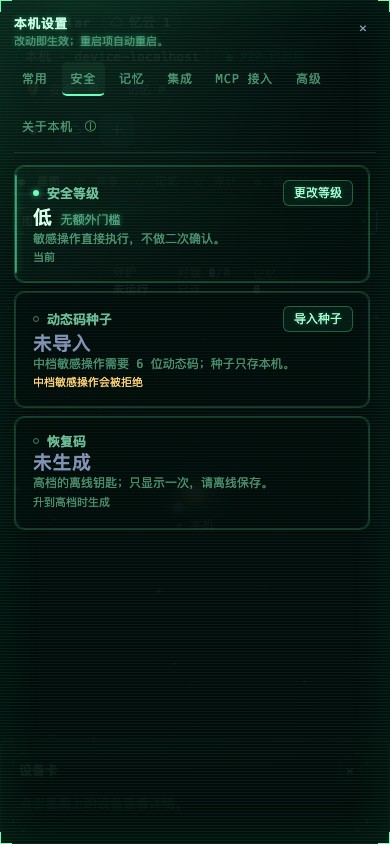
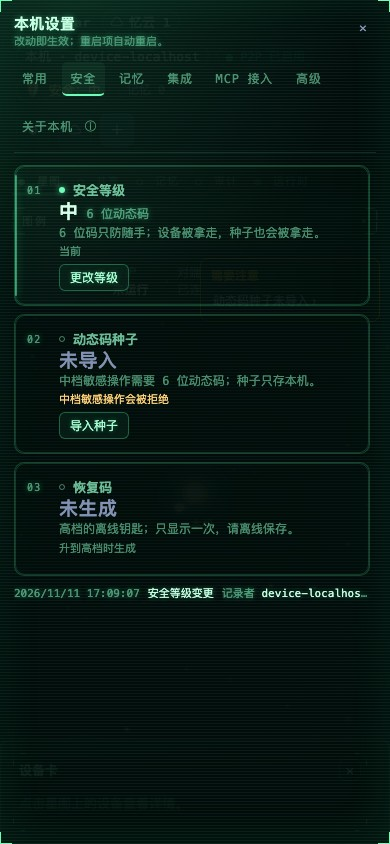
feat(console): v2.1 design-review alignment (settings only)
- title 15/700, field labels 13/400, buttons 27, group labels uppercase, JetBrains first
- common: interface group wraps the language row; compress group rhythm to keep 720 + banner unscrolled
- security: 01-03 index column, 114 cards, 11px audit line from existing security events
- cfg-row 150/1fr/68; keep 40px rows, anomaly triple, 188 rail (review 160 is a doc conflict)
- update UI assertions, screenshots and docs

diff --git a/packages/console/console.css b/packages/console/console.css
@@ -24,7 +24,7 @@
   --danger: #d55e00;
   --revoked: #7a8399;
   --radius: 10px;
-  --font: "SF Mono", "JetBrains Mono", "Fira Code", ui-monospace, Menlo, Consolas, monospace;
+  --font: "JetBrains Mono", "SF Mono", "Fira Code", ui-monospace, Menlo, Consolas, monospace;
   /* 辅助文本层级（默认值 = 中文现状；英文覆盖见下方 html[lang="en-US"]） */
   --type-help: 10.5px;
   --type-help-leading: 1.5;
@@ -3165,7 +3165,7 @@ html[lang="en-US"] .btn-small { line-height: 1.5; }
 .cfg-row + .cfg-warn-line + .cfg-effective { margin-top: 0; }
 
 /* v2 英文同样 12/18：压掉旧 en 的 1.35 标签行距对 .cfg-label 的覆盖 */
-html[lang="en-US"] .modal-settings .cfg-label { line-height: 18px; }
+html[lang="en-US"] .modal-settings .cfg-label { line-height: 19px; }
 
 /* 加入忆云仍是 560 宽（cloud-join-box 覆盖 modal-box-wide） */
 #join-cloud-modal .modal-box, .modal-box.cloud-join-box { width: min(560px, 94vw); }
@@ -3204,3 +3204,96 @@ html[lang="en-US"] .modal-settings .cfg-label { line-height: 18px; }
   .sec-pending .btn { flex: 0 0 auto; }
   #settings-security-slot > .settings-section.sec-card { min-width: 0; }
 }
+
+/* ===== v2.1 规格对齐（仅设置弹层；关于/其它弹层不受影响） ===== */
+.modal-settings .modal-head { height: 38px; }
+.modal-settings .modal-head h2 { font-size: 15px; line-height: 20px; font-weight: 700; letter-spacing: 0.02em; }
+.modal-settings .modal-head .settings-apply-note { margin-top: 2px; }
+.modal-settings .settings-group-head h3 { text-transform: uppercase; }
+.modal-settings .settings-kv dt,
+.modal-settings .settings-kv .kv-value,
+.modal-settings .cfg-label,
+.modal-settings .cfg-status,
+.modal-settings .cfg-control .crt-input { font-size: 13px; line-height: 19px; }
+.modal-settings .btn,
+.settings-more > .btn,
+.settings-more-panel .btn { height: 27px; min-height: 27px; }
+.modal-settings .cfg-row {
+  display: grid;
+  grid-template-columns: 150px minmax(0, 1fr) 68px;
+  column-gap: 10px;
+  align-items: center;
+  height: 40px; min-height: 40px;
+  padding: 0 14px;
+}
+.modal-settings .cfg-label { flex: none; }
+.modal-settings .cfg-control { margin-left: 0; justify-self: end; justify-content: flex-end; }
+.modal-settings .cfg-status { justify-self: end; }
+.modal-settings .settings-kv .kv-action .btn { height: 27px; }
+
+/* v2.1 · 常用「界面」组：语言行在面板内不再自带下虚线 */
+.settings-group-body .settings-language-row {
+  height: 40px; min-height: 40px; padding: 0 14px; border-bottom: 0;
+}
+
+/* v2.1 · 安全卡：22px 序号 + 主列 + 动作列（仍 114） */
+#settings-security-slot > .settings-section.sec-card {
+  display: grid;
+  grid-template-columns: 22px minmax(0, 1fr) auto;
+  column-gap: 10px;
+  align-items: start;
+  height: 114px;
+  padding: 14px 16px 14px 12px;
+}
+.sec-card-idx {
+  display: block; padding-top: 3px;
+  font-size: 10px; line-height: 15px; letter-spacing: 1.2px;
+  color: var(--crt-dim); font-variant-numeric: tabular-nums;
+}
+.sec-card-main { grid-column: 2; min-width: 0; }
+.sec-card-actions {
+  grid-column: 3; justify-self: end;
+  display: flex; align-items: flex-start; justify-content: flex-end;
+  gap: 6px; flex-wrap: wrap; min-width: 0;
+}
+.sec-card-actions .btn { height: 27px; padding: 0 10px; }
+
+/* 安全审计一行流（无事件时不渲染） */
+.modal-settings .sec-audit-line, #settings .sec-audit-line {
+  margin: 2px 0 0;
+  display: flex; align-items: baseline; gap: 8px;
+  line-height: 16px; white-space: nowrap;
+  min-width: 0;
+  font-size: 11px; line-height: 16px; color: var(--crt-dim);
+  white-space: nowrap; overflow: hidden; text-overflow: ellipsis;
+}
+.sec-audit-time { flex: none; font-variant-numeric: tabular-nums; }
+.sec-audit-type { flex: none; color: var(--crt-bright); }
+.sec-audit-desc { min-width: 0; overflow: hidden; text-overflow: ellipsis; }
+.sec-audit-desc b { font-weight: 400; color: var(--crt-bright); }
+
+/* v2.1 · 窄屏：字段行仍两行（标签上、控件下），安全卡动作换到主列下方 */
+@media (max-width: 760px) {
+  .modal-settings .cfg-row {
+    display: grid; grid-template-columns: minmax(0, 1fr);
+    height: auto; min-height: 40px; row-gap: 2px; padding: 6px 14px;
+  }
+  .modal-settings .cfg-label { white-space: normal; }
+  .modal-settings .cfg-control { justify-self: start; justify-content: flex-start; }
+  .modal-settings .cfg-status { justify-self: start; }
+}
+@media (max-width: 560px) {
+  #settings-security-slot > .settings-section.sec-card {
+    grid-template-columns: 22px minmax(0, 1fr);
+    height: auto; min-height: 114px;
+  }
+  .sec-card-actions { grid-column: 2; grid-row: 2; justify-self: start; margin-top: 2px; }
+  .sec-card-main { grid-column: 2; grid-row: 1; }
+}
+
+/* v2.1 · 为「界面」组腾出 720 + 40 条的空间：只压组间距（内容不隐藏） */
+.modal-settings .modal-head { height: 36px; }
+.modal-settings .modal-head .settings-apply-note { margin-top: 0; }
+.modal-settings .settings-group { margin-top: 5px; }
+.modal-settings .settings-group-head { margin-bottom: 4px; }
+.modal-settings .settings-scroll { padding-top: 8px; }

diff --git a/packages/console/console.js b/packages/console/console.js
@@ -2161,7 +2161,10 @@ function renderSettings(activeTab = state.settingsTab ?? 'common') {
     ${applyResultBanner()}
     ${shellHtml(`
     ${panel('common', `
-      ${languageSettingsRowHtml()}
+      <section class="settings-group" data-settings-group="interface">
+        <div class="settings-group-head"><h3>${escapeHtml(t('settings.group.interface'))}</h3></div>
+        <div class="settings-group-body">${languageSettingsRowHtml()}</div>
+      </section>
       <section class="settings-group" data-settings-group="resident">
         <div class="settings-group-head"><h3>${escapeHtml(t('settings.common.group.runs'))}</h3></div>
         <div class="settings-group-body" id="settings-resident">${serviceRowHtml(state.service, state.serviceMsg)}${repairRowHtml(state.repair)}${wizardRowHtml(host.capabilities.openWizard)}</div>
@@ -2294,10 +2297,12 @@ function securitySectionCard({ id, index, titleId, title, state: cardState = 'ef
   const off = cardState === 'off';
   return `
     <section class="settings-section sec-card ${off ? 'is-off' : 'is-effective'}" data-settings-section="${escapeHtml(id)}" aria-labelledby="${escapeHtml(titleId)}">
+      <span class="sec-card-idx" aria-hidden="true">${escapeHtml(index)}</span>
       <div class="sec-card-main">
-        <div class="sec-card-head"><span class="sec-dot${off ? ' is-off' : ''}" aria-hidden="true"></span><h3 id="${escapeHtml(titleId)}">${escapeHtml(title)}</h3>${chip}${actions ? `<div class="sec-card-actions">${actions}</div>` : ''}</div>
+        <div class="sec-card-head"><span class="sec-dot${off ? ' is-off' : ''}" aria-hidden="true"></span><h3 id="${escapeHtml(titleId)}">${escapeHtml(title)}</h3>${chip}</div>
         ${body}
       </div>
+      <div class="sec-card-actions">${actions}</div>
     </section>`;
 }
 
@@ -2400,6 +2405,21 @@ function securityPendingStrip({ incoming, outgoing }) {
     </div>`;
 }
 
+/** 安全审计一行流：取既有 security_* 事件的最新一条；没有就完全隐藏（不造数据）。 */
+function securityAuditLine() {
+  const types = ['security_tier', 'security_approval', 'security_recovery', 'security_totp'];
+  const event = (state.policy ?? [])
+    .filter((item) => item && types.includes(item.type))
+    .sort((a, b) => (Number(b.at) || 0) - (Number(a.at) || 0))[0];
+  if (!event) return '';
+  const when = event.at ? formatTime(event.at) : '';
+  return `<p class="sec-audit-line" data-security-audit>
+    ${when ? `<span class="sec-audit-time">${escapeHtml(when)}</span>` : ''}
+    <span class="sec-audit-type">${escapeHtml(actionLabel(event.type))}</span>
+    <span class="sec-audit-desc">${describeEvent(event)}</span>
+  </p>`;
+}
+
 /** 安全 tab：待批准条 + 三张状态卡（不内联展开；详情/危险动作统一进弹框）。 */
 function securityCardHtml() {
   const sec = state.security;
@@ -2499,6 +2519,7 @@ function securityCardHtml() {
     ${levelCard}
     ${seedCard}
     ${recoveryCard}
+    ${securityAuditLine()}
     ${rejectionFoot}`;
 }
 

diff --git a/docs/console/screens/u4-settings-redesign/README.md b/docs/console/screens/u4-settings-redesign/README.md
@@ -2,14 +2,18 @@
 
 基线：`feat/console-settings-redesign` 的 v2 设置改版（760×720 / 关于 760×680）。本目录是 v2 全量视觉基线；U-1 / U-3 目录里对应的设置截图已同步刷新。
 
-> **v2 改版（2026-11-11）**：设置外框 640 → **760**，左轨 160 → **188**，内容列约 **530**；设置高 **720**、关于高 **680**。高度只保留 **34 / 40 / 58**（控件 26），面板 = 16 + 行数；字号只保留 **10 / 11 / 12 / 13 / 19**；分组标签 10px / 1.5 字距、sentence case、无渐隐横线、无 pill；安全三卡统一 **114** 并带 19px 状态值；待重启/应用结果条定高 **40**；关于本机三组 + 三折叠、40 行、43 项字段 parity。
+> **v2.1 规格对齐（2026-11-11）**：设置外框 **760**、左轨 **188**、内容列约 **530**；设置高 **720**、关于 **680**；行 **34 / 40 / 58**，按钮 **27**、输入/下拉 26。
+> 排印：页面标题 **15/700**；字段标签/正文 **13/400**；分组标签 **10/600/1.5 字距 + uppercase**（中文不受影响）；辅助 **11/16**；微 **10**；字体栈 **JetBrains Mono 优先**（系统 fallback，不引 webfont）。
+> 组件：`.cfg-row` **150 / minmax(0,1fr) / 68** 三列；安全卡 **22px 序号 01–03 + 主列 + 动作列**、仍 **114**、19px 值；卡片下 **11px 审计一行流**（无事件隐藏）；待重启条 40；异常三元组默认可见。
+> **Reviewer 文档冲突**：review §4 写左轨 188、§5 写 160；设计稿与已验收 v2 均为 **188**，本基线保持 **188**（未回退 160）。
 
 ## 范围
 
 - **外壳**：设置 760×720、关于 760×680；标题 + 「改动即生效；重启项自动重启。」提示常驻；只有内容列 `.settings-scroll` 滚动。
-- **竖轨**：≥901px 为左侧 **188px** 固定页签轨（`常用 / 安全 / 记忆 / 集成 / MCP 接入 / 高级`，底部「关于本机 ⓘ」）；**≤900px** 折叠为顶部横排；**≤760px** 顶部横排 + 只读行改为上下两行；**≤560px** 全屏无边框。
+- **竖轨**：≥901px 为左侧 **188px** 固定页签轨（review §5 的 160 为文档冲突，按 188 执行）（`常用 / 安全 / 记忆 / 集成 / MCP 接入 / 高级`，底部「关于本机 ⓘ」）；**≤900px** 折叠为顶部横排；**≤760px** 顶部横排 + 只读行改为上下两行；**≤560px** 全屏无边框。
 - **900 档**：顶部横排后内容区变矮，**允许竖向滚动**（正常行、正常滚动）；只读行仍是 40px、label/value 同一行，禁止套 390 的堆叠规则。
-- **统一行模板**：字段行 `label | control | status`，只读行 `label | value | action`；40px + 行间虚线；常驻/忆云两行信息 58px；警告/帮助独立成行。
+- **统一行模板**：字段行 `label 150 | control 1fr | status 68`，只读行 `label | value | action`；40px + 行间虚线；常驻/忆云两行信息 58px；高级开关 38×20；警告/帮助独立成行。
+- **常用「界面」组**：语言行归入 10px「界面」组头；新增组头后 720 + 40 条实测内容 **542 / 590**（浏览器），桌面壳含重启向导行 **582 / 590**，余 8px，不滚动（压缩组间距 12→5、组头 8→4，未隐藏内容）。
 - **异常可见性**：`pending` / `mismatch` 的完整三元组（已配置 / 实际 / 原因）默认作为行下静态 11px 警告行显示，不依赖 focus、不藏 popover；行本身仍 40px，无异常时没有这行。
 - **安全卡**：三张同构 114px（安全等级 / 动态码种子 / 恢复码），19px 状态值；`is-effective` 实心点 + 左侧荧光条，`is-off` 空心点；待批准条只在有记录时置顶（40px）。
 - **关于本机**：三组（身份与存储 / 运行与同步 / 诊断与恢复）+ 三折叠，40px 行；旧 about 的 43 项字段全量保留（见 `../../../console/ABOUT-PARITY` 对应原型清单），不新增日志路径。
@@ -25,7 +29,7 @@
 |---|---|
 | `u4-after-settings-common-1440.jpg` | 常用：语言 + 本机运行（常驻 58 / 修复 40 / 向导 40）+ 本机状态 3×40 + 忆云 2×58 |
 | `u4-after-settings-common-banner-1440.jpg` | 常用 + 40px 待重启条：单行、动作右对齐、不挤压内容 |
-| `u4-after-settings-security-1440.jpg` | 安全：三张 114 卡 + 19px 状态值（无待批准时不显示条件条） |
+| `u4-after-settings-security-1440.jpg` | 安全：01–03 序号列 + 114 卡 + 19px 值 + 11px 审计一行流（无事件时隐藏） |
 | `u4-after-settings-memory-1440.jpg` | 记忆：记忆模式（轻量 MCP / 沉浸式）/ 模型来源（heuristic/local/host/api/auto）/ 运行状态 |
 | `u4-after-settings-mcp-1440.jpg` | MCP：连接 / TLS 两组；端口未生效时行下可见「已配置 / 实际 / 原因」 |
 | `u4-after-settings-advanced-1440.jpg` | 高级：常驻服务 / 网络 / 自动化 + 诊断折叠 |

diff --git a/docs/console/screens/u3/README.md b/docs/console/screens/u3/README.md
@@ -1,4 +1,4 @@
-> **v2 刷新（2026-11-11）**：设置壳改为 760×720（关于 760×680）、左轨 188；安全三卡统一 114 + 19px 状态值，MCP 端口不一致在行下给出默认可见的 11px 三元组（已配置 / 实际 / 原因），高级保留真实 checkbox/输入（26px）。本目录 `u3-after-settings-security*.jpg`、`u3-after-settings-mcp*.jpg`、`u3-after-settings-advanced*.jpg`（含 900/390 与展开态）已按 v2 重新生成；全量基线见 `../u4-settings-redesign/`。
+> **v2 刷新（2026-11-11）**：设置壳改为 760×720（关于 760×680）、左轨 188；安全三卡恢复 22px 序号 01–03 + 114 高 + 19px 状态值，卡下 11px 审计一行流（无事件隐藏）；MCP 端口不一致在行下给出默认可见的 11px 三元组；高级保留真实 checkbox/输入，开关 38×20。本目录 `u3-after-settings-security*.jpg`、`u3-after-settings-mcp*.jpg`、`u3-after-settings-advanced*.jpg`（含 900/390 与展开态）已按 v2 重新生成；全量基线见 `../u4-settings-redesign/`。
 
 # U-3 · 设置页设计收口（安全 / MCP / 高级）
 
